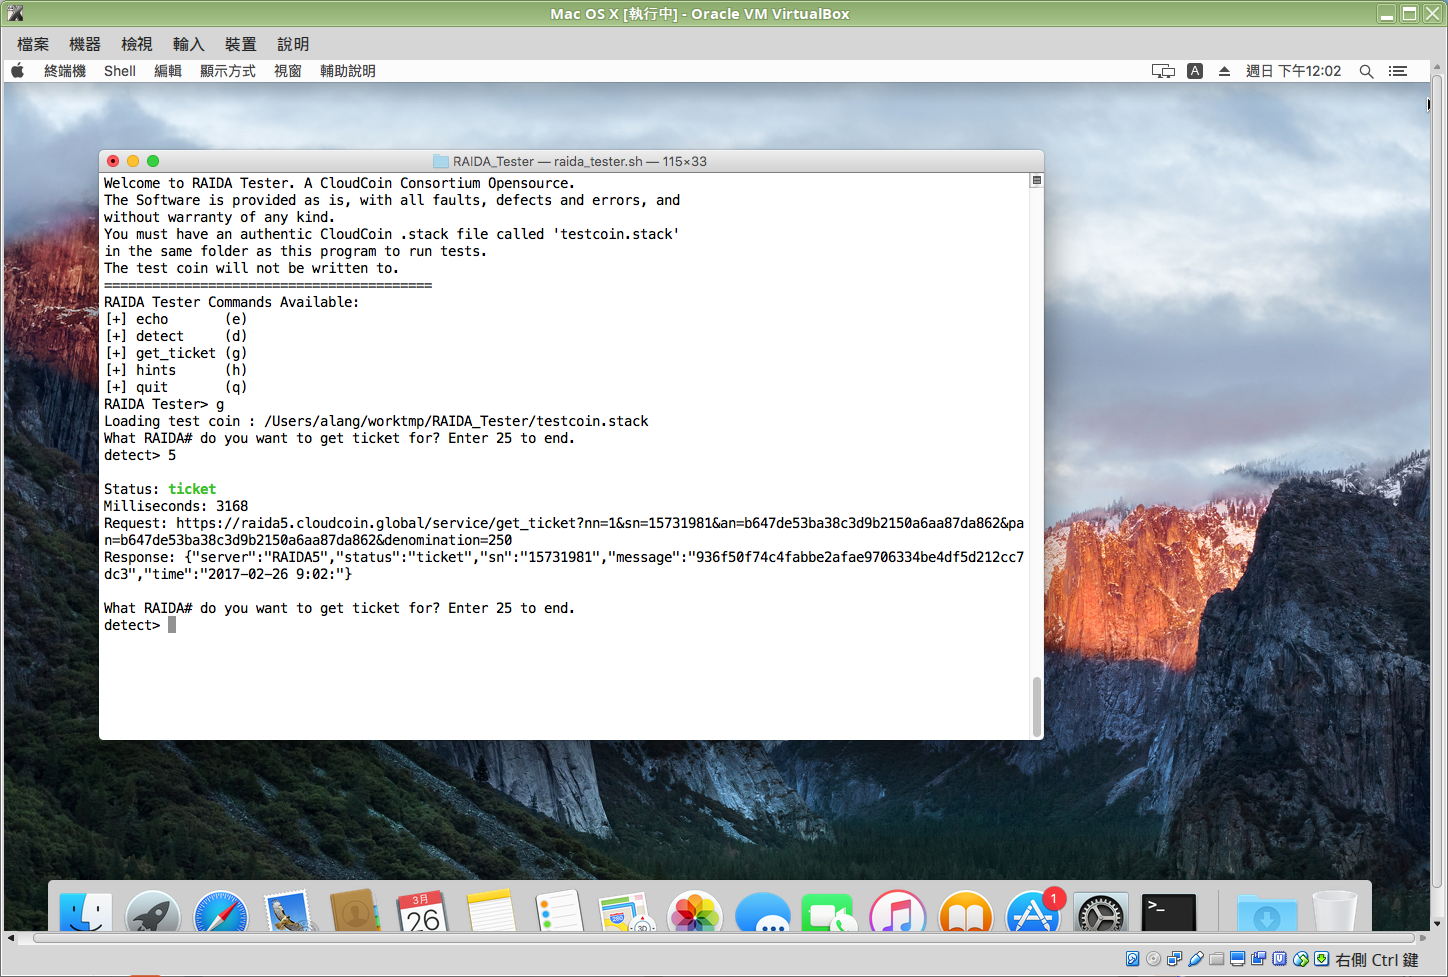
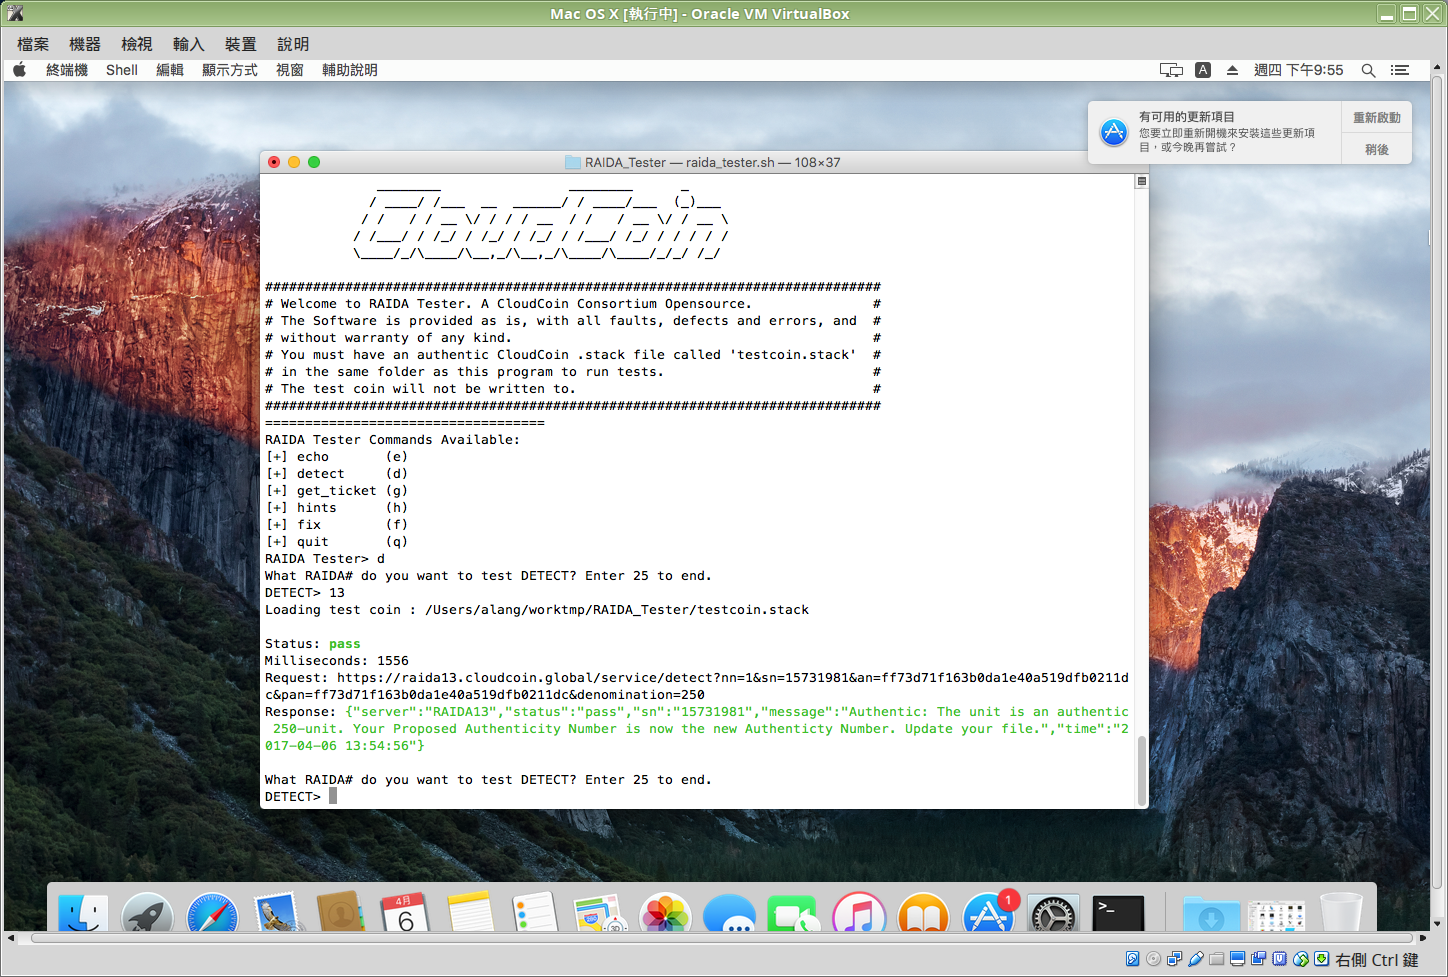
Updated the readme and screenshot

Changed region(s): [[0.0, 0.0614, 0.9945, 0.9519], [0.0, 0.0614, 0.2797, 0.0921]]

diff --git a/README.md b/README.md
@@ -5,7 +5,7 @@ The program is used to test CloudCoin RAIDA network, which is written in Bash.
 
 It's able to work on all Linux distro and Mac OS. 
 
-Demonstration: https://asciinema.org/a/5fhs1e9volg8zkaf0l27ru4py
+Demonstration: https://asciinema.org/a/4bbzhe6azodv7ovl1nupg3k40
 
 ![image](https://raw.githubusercontent.com/a-lang/RAIDA_Tester/master/raida-tester_on_Mac.png)
 
